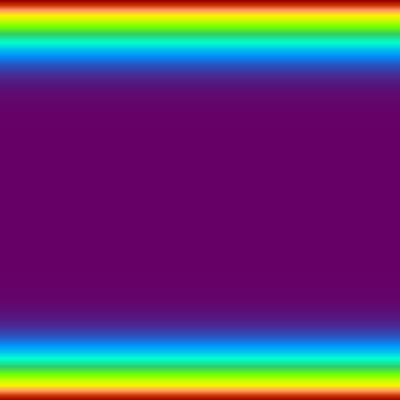
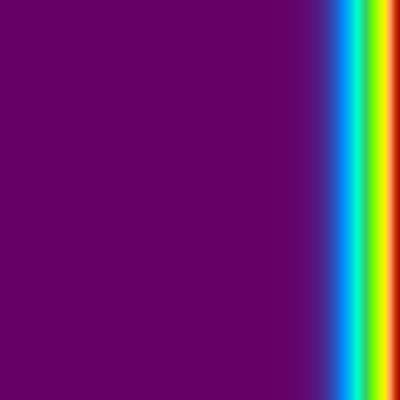
visualization improved, real-time animation added

diff --git a/src/org/bitbucket/eirlis/conetc/render/ThermalCylinder.java b/src/org/bitbucket/eirlis/conetc/render/ThermalCylinder.java
@@ -18,7 +18,16 @@ import java.util.*;
 public class ThermalCylinder {
     private static final int SIDE_TEXTURE_WIDTH = 400;
     private static final int SIDE_TEXTURE_HEIGHT = 400;
+    private static final int INNER_TEXTURE_WIDTH = 400;
+    private static final int INNER_TEXTURE_HEIGHT = 400;
+    private static final int TOP_TEXTURE_WIDTH = 400;
+    private static final int TOP_TEXTURE_HEIGHT = 400;
+    private static final int BOTTOM_TEXTURE_WIDTH = 400;
+    private static final int BOTTOM_TEXTURE_HEIGHT = 400;
     private PImage sideTexture;
+    private PImage innerTexture;
+    private PImage topTexture;
+    private PImage bottomTexture;
     private PApplet pApplet;
     private float radius, height;
     private int sides;
@@ -26,6 +35,7 @@ public class ThermalCylinder {
     float[] z;
     float[] x2;
     float[] z2;
+    private BufferedImage image;
 
     public ThermalCylinder(
             float radius,
@@ -40,18 +50,21 @@ public class ThermalCylinder {
         this.height = height;
         initShape(sides, radius);
         initSideTexture(tField, gradient);
+        initInnerTexture(tField, gradient);
+        initTopTexture(tField, gradient);
         pApplet = applet;
     }
 
     public void draw() {
+        pApplet.pushMatrix();
+        pApplet.translate(0, height / 2, 0);
         drawSide();
+        drawInner();
+        drawTop();
+        pApplet.popMatrix();
     }
 
     private void drawSide() {
-        pApplet.pushMatrix();
-
-        pApplet.translate(0, height / 2, 0);
-
         pApplet.beginShape(PApplet.QUAD_STRIP);
         pApplet.texture(sideTexture);
         for(int i=0; i < x.length - 2; i++){
@@ -59,9 +72,56 @@ public class ThermalCylinder {
             pApplet.vertex(x[i], - height / 2, z[i], u, 0);
             pApplet.vertex(x2[i], height / 2, z2[i], u, SIDE_TEXTURE_HEIGHT);
         }
+        pApplet.endShape();
+
+    }
+
+    private void drawInner() {
+        int a = x.length - 3;
+        int b = x.length - 2;
+        int c = x.length - 1;
+        pApplet.beginShape(PApplet.QUADS);
+        pApplet.texture(innerTexture);
+        pApplet.vertex(x[b], - height / 2, z[b], 0, 0);
+        pApplet.vertex(x[a], - height / 2, z[a], SIDE_TEXTURE_WIDTH, 0);
+        pApplet.vertex(x2[a], height / 2, z2[a], SIDE_TEXTURE_WIDTH, SIDE_TEXTURE_HEIGHT);
+        pApplet.vertex(x2[b],  height / 2, z2[b], 0, SIDE_TEXTURE_HEIGHT);
+        pApplet.endShape();
+        pApplet.beginShape(PApplet.QUADS);
+        pApplet.texture(innerTexture);
+        pApplet.vertex(x[b], - height / 2, z[b], 0, 0);
+        pApplet.vertex(x[c], - height / 2, z[c], SIDE_TEXTURE_WIDTH, 0);
+        pApplet.vertex(x2[c], height / 2, z2[c], SIDE_TEXTURE_WIDTH, SIDE_TEXTURE_HEIGHT);
+        pApplet.vertex(x2[b],  height / 2, z2[b], 0, SIDE_TEXTURE_HEIGHT);
+        pApplet.endShape();
+    }
+
+    private void drawTop() {
+        pApplet.beginShape(PApplet.TRIANGLE_FAN);
+        pApplet.texture(topTexture);
+        pApplet.vertex(0, -height / 2,   0, 0, 0);
+
+        for (int i = 0; i < x.length; i++) {
+            float v = TOP_TEXTURE_HEIGHT / x.length * i;
+            pApplet.vertex(x[i], -height / 2, z[i], TOP_TEXTURE_WIDTH, v);
+        }
+        pApplet.vertex(0, -height / 2,   0, 0, TOP_TEXTURE_HEIGHT);
 
         pApplet.endShape();
-        pApplet.popMatrix();
+    }
+
+    private void drawBottom() {
+        pApplet.beginShape(PApplet.TRIANGLE_FAN);
+        pApplet.texture(topTexture);
+        pApplet.vertex(0, height / 2,   0, 0, 0);
+
+        for (int i = 0; i < x.length; i++) {
+            float v = TOP_TEXTURE_HEIGHT / x.length * i;
+            pApplet.vertex(x[i], height / 2, z[i], TOP_TEXTURE_WIDTH, v);
+        }
+        pApplet.vertex(0, height / 2,   0, 0, TOP_TEXTURE_HEIGHT);
+
+        pApplet.endShape();
     }
 
     private void initSideTexture(double[][] tField, Gradient gradient) {
@@ -82,6 +142,77 @@ public class ThermalCylinder {
             }
         }
         sideTexture = new PImage(bi);
+    }
+
+    private void initInnerTexture(double[][] tField, Gradient gradient) {
+        BufferedImage bi = new BufferedImage(
+                INNER_TEXTURE_WIDTH,
+                INNER_TEXTURE_HEIGHT,
+                BufferedImage.TYPE_INT_RGB
+            );
+        int n = tField.length - 1;
+        int m = tField[0].length - 1;
+        double nodesRToPixels = (double) n / INNER_TEXTURE_WIDTH;
+        double nodesZToPixels = (double) m / INNER_TEXTURE_HEIGHT;
+        for (int i = 0; i < INNER_TEXTURE_HEIGHT; i++) {
+            double temp = i * nodesZToPixels;
+            int up = (int) temp;
+            int down = (int) Math.ceil(temp);
+            for (int j = 0; j < INNER_TEXTURE_WIDTH; j++) {
+                double temp2 = j * nodesRToPixels;
+                int left = (int) temp2;
+                int right = (int) Math.ceil(temp2);
+                double t =
+                    tField[left][up] + (tField[right][down] - tField[left][up]) *
+                        (Math.sqrt(temp * temp + temp2 * temp2) - Math.sqrt(up * up + right * right)) / Math.sqrt(2);
+                bi.setRGB(j, i, gradient.getGradient(t));
+
+            }
+        }
+        innerTexture = new PImage(bi);
+        image = bi;
+    }
+
+    private void initTopTexture(double[][] tField, Gradient gradient) {
+        BufferedImage bi = new BufferedImage(
+                TOP_TEXTURE_WIDTH,
+                TOP_TEXTURE_HEIGHT,
+                BufferedImage.TYPE_INT_RGB
+        );
+        int n = tField[0].length;
+        double nodesToPixels = (double) (n - 1) / TOP_TEXTURE_WIDTH;
+        for (int j = 0; j < TOP_TEXTURE_WIDTH; j++) {
+            double temp = j * nodesToPixels;
+            int left = (int) (temp);
+            int right = (int) Math.ceil(temp);
+            double t = tField[left][n - 1] + (tField[right][n - 1] - tField[left][n - 1]) * (temp - left);
+            for (int i = 0; i < TOP_TEXTURE_HEIGHT; i++) {
+                bi.setRGB(j, i, gradient.getGradient(t));
+            }
+        }
+        topTexture = new PImage(bi);
+        image = bi;
+    }
+
+    private void initBottomTexture(double[][] tField, Gradient gradient) {
+        BufferedImage bi = new BufferedImage(
+                TOP_TEXTURE_WIDTH,
+                TOP_TEXTURE_HEIGHT,
+                BufferedImage.TYPE_INT_RGB
+        );
+        int n = tField[0].length;
+        double nodesToPixels = (double) (n - 1) / TOP_TEXTURE_WIDTH;
+        for (int j = 0; j < TOP_TEXTURE_WIDTH; j++) {
+            double temp = j * nodesToPixels;
+            int left = (int) (temp);
+            int right = (int) Math.ceil(temp);
+            double t = tField[left][0] + (tField[right][0] - tField[left][0]) * (temp - left);
+            for (int i = 0; i < TOP_TEXTURE_HEIGHT; i++) {
+                bi.setRGB(j, i, gradient.getGradient(t));
+            }
+        }
+        topTexture = new PImage(bi);
+        image = bi;
     }
 
     private void initShape(int sides, float radius) {
@@ -147,9 +278,9 @@ public class ThermalCylinder {
         gradient.setMin(Math.min(20, 50));
         gradient.setMax(Math.max(20, 50));
 
-        // ThermalCylinder tc = new ThermalCylinder(0.1f, 0.1f, t, gradient, pApplet);
-//        tc.initSideTexture(t, gradient);
-//        File file = new File("image.jpg");
-//        ImageIO.write(tc.sideTexture, "jpg", file);
+        ThermalCylinder tc = new ThermalCylinder(0.1f, 0.1f, t, gradient, pApplet, 50);
+        tc.initSideTexture(t, gradient);
+        File file = new File("image.jpg");
+        ImageIO.write(tc.image, "jpg", file);
     }
 }

diff --git a/src/org/bitbucket/eirlis/conetc/ConeTC.java b/src/org/bitbucket/eirlis/conetc/ConeTC.java
@@ -22,6 +22,7 @@ import java.util.List;
  * Created by Elena on 13.03.2016.
  */
 public class ConeTC extends PApplet {
+    private static final double STEP_FREQUENCY = 0.1;
     private static final int NR = 100, NZ = 100;
     private float scaleX = 1, scaleY = 1;
     private float rotationX = 0f;
@@ -45,6 +46,11 @@ public class ConeTC extends PApplet {
     private double Th;
     private double time;
 
+    private double timeStep;
+    private double currentTime = 0;
+    private double timer = STEP_FREQUENCY;
+    private boolean started = false;
+
     private PositionManager _positionManager;
 
     @Override
@@ -61,6 +67,7 @@ public class ConeTC extends PApplet {
 
     @Override
     public void setup() {
+
         gradient.addColor(color(102, 0, 102));
         gradient.addColor(color(0, 144, 255));
         gradient.addColor(color(0, 255, 207));
@@ -236,27 +243,8 @@ public class ConeTC extends PApplet {
                 .addListener(new ControlListener() {
                     @Override
                     public void controlEvent(ControlEvent controlEvent) {
-                        temperatureField = mThermalProblemSolver.calculateTemperatureCylinder(
-                                Math.max(bottomRadius, topRadius) / 1000.0,
-                                height / 1000.0,
-                                lambda,
-                                ro,
-                                c,
-                                T0,
-                                Th,
-                                Th,
-                                Th,
-                                time
-                        );
-                        updateGradient();
-                        thermalCylinder = new ThermalCylinder(
-                                bottomRadius,
-                                coneHeight,
-                                temperatureField,
-                                gradient,
-                                ConeTC.this,
-                                50
-                        );
+                        started = true;
+                        timeStep = (double) time / steps;
                     }
                 });
 
@@ -291,8 +279,12 @@ public class ConeTC extends PApplet {
         cp5.get(Textfield.class, "Border temperature").setText("50");
         cp5.get(Textfield.class, "Time").setText("30");
         cp5.get(Textfield.class, "Steps").setText("10");
-        if (temperatureField != null)
+        if (temperatureField != null) {
+            started = false;
+            currentTime = 0;
+            timer = STEP_FREQUENCY;
             temperatureField = null;
+        }
 
     }
 
@@ -318,8 +310,44 @@ public class ConeTC extends PApplet {
         }
     }
 
+    private void calculate() {
+        temperatureField = mThermalProblemSolver.calculateTemperatureCylinder(
+                Math.max(bottomRadius, topRadius) / 1000.0,
+                height / 1000.0,
+                lambda,
+                ro,
+                c,
+                T0,
+                Th,
+                Th,
+                Th,
+                currentTime
+        );
+        updateGradient();
+        thermalCylinder = new ThermalCylinder(
+                bottomRadius,
+                coneHeight,
+                temperatureField,
+                gradient,
+                ConeTC.this,
+                50
+        );
+    }
     @Override
     public void draw() {
+        double deltaTime = 1.0 / frameRate;
+        if (started) {
+            timer -= deltaTime;
+            if (timer < 0) {
+                calculate();
+                timer += STEP_FREQUENCY;
+                currentTime += timeStep;
+                steps--;
+                cp5.get(Textfield.class, "Steps").setText(Integer.toString(steps));
+                if (steps <= 0)
+                    started = false;
+            }
+        }
         background(0);
         fill(255);
         try {
@@ -332,6 +360,7 @@ public class ConeTC extends PApplet {
             T0 = Double.parseDouble(cp5.get(Textfield.class, "Initial temperature").getText());
             Th = Double.parseDouble(cp5.get(Textfield.class, "Border temperature").getText());
             time = Double.parseDouble(cp5.get(Textfield.class, "Time").getText());
+            steps = Integer.parseInt(cp5.get(Textfield.class, "Steps").getText());
 
         } catch (NumberFormatException e) {
 
